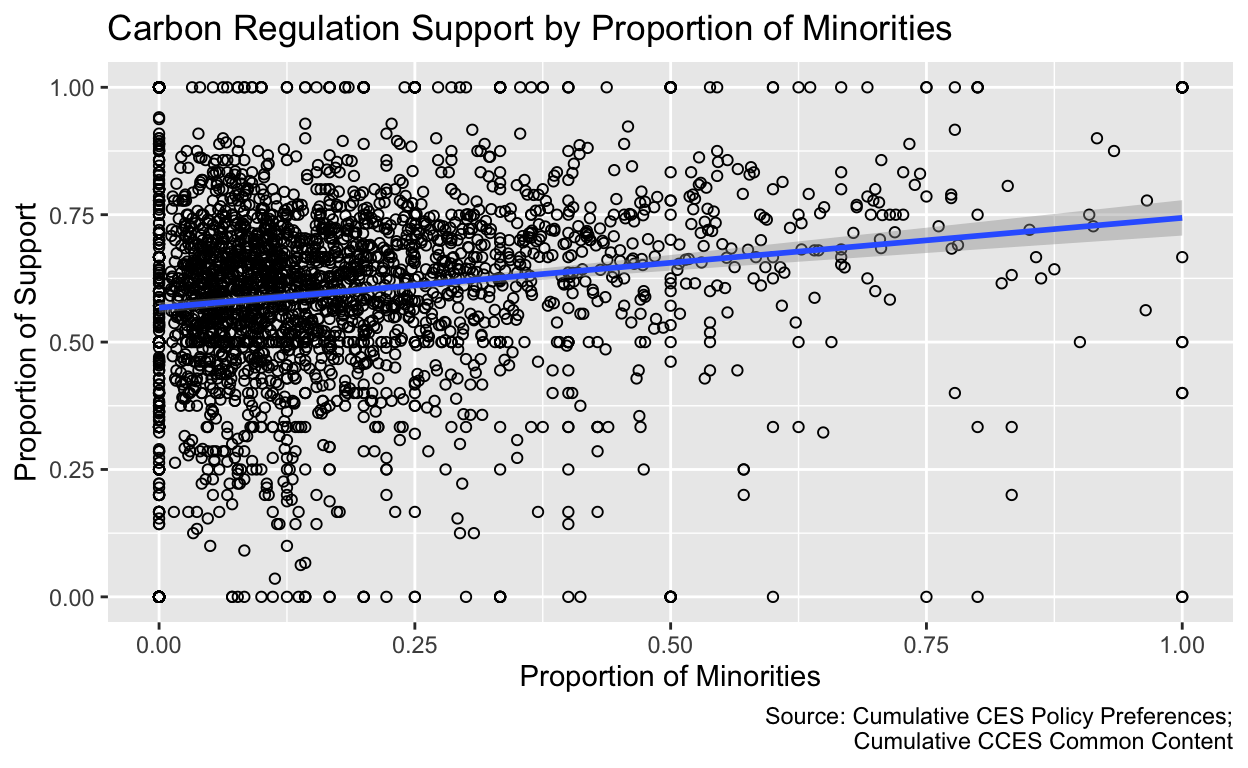
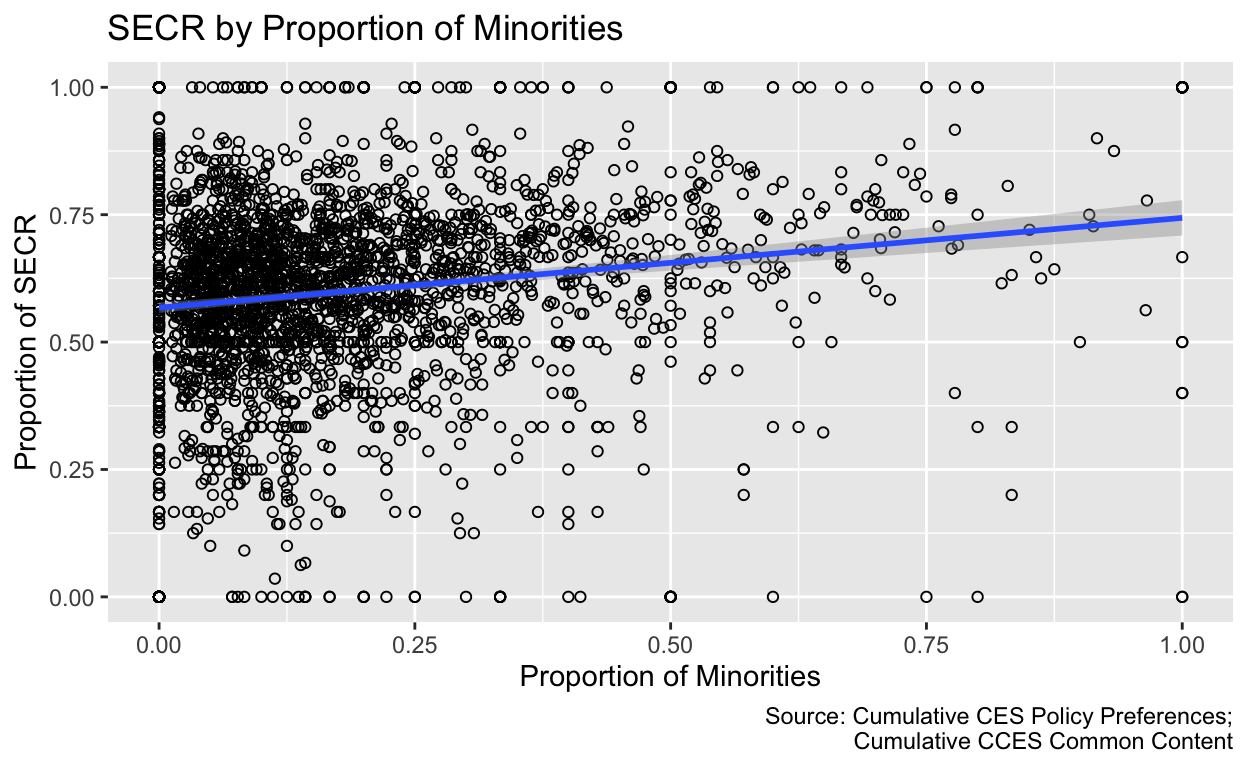
Final Submission

Changed region(s): [[0.0938, 0.0, 0.7812, 0.0625], [0.0, 0.25, 0.0312, 0.625]]

diff --git a/index.html b/index.html
@@ -1529,17 +1529,18 @@ code span.wa { color: #5e5e5e; font-style: italic; } /* Warning */
 
 </div>
 <h2 id="project-proposal">Project Proposal</h2>
-<p>How can different demographics, geography and socioeconomic status impact approval of climate policy or action on climate change? I hypothesize that the strongest correlation between an explanatory variable and the outcome variable(support for climate policy) will be seen with the separation across partly lines. Additionally there will be a weaker correlation when evaluating race as an explanatory variable. I will test this hypothesis through data collected from the Cumulative CES Policy Preferences which includes policy preferences from 2006 to 2021 and the Cumulative CCES Common Content data which contains many of the explanatory data I will analyze. Both of these data sources are broad surveys that sample random populations across the United States. Throughout my analysis i will use several different explanatory variables which will be in the form of different environmental policies that were surveyed in the CCES data. If I find that there is a greater support for environmental policies among democrats and other demographics that may lean overwhelmingly progressive then my hypothesis will be proven correct. This would be noted by a positive and significant coefficient when I run my regression.</p>
+<p>How can racial demographics impact climate change policy preference? I hypothesize that there will be a significant correlation between a explanatory variable indicating race and the outcome variable(support for climate policy). I will seek to explore this question and evaluate the correlations that are drawn and whether they are significant or can be evaluated causally. Finding these relationships in regards to policy preferences are extremely important especially in the realm of environmental policy as they can inform strategies for crafting policy that may be universally accepted. I specifically sought to explore if there was a significant correlation between race and support from climate policy as a springboard for exploration into broader topics of environmental justice as if there is a significant correlation then issues of inequity within climate change impacts may be further warranted.</p>
 <h1 id="introduction">Introduction</h1>
-<p>Using survey data generated from counties across the United States this project seeks to determine the impact of various demographics, geographic locations, and socioeconomic statuses on various environmental policy preferences.</p>
+<p>Using survey data generated from counties across the United States this project seeks to determine the impact of racial demographics on environmental policy preferences.</p>
 <h1 id="data-and-research-design">Data and Research Design</h1>
 <p>To investigate these relationships I relied on data from 2 different sources.</p>
 <ol type="1">
-<li><p><strong>Cumulative CES Policy Preferences</strong> which compiles policy preference question items from Cooperative Election Study (CES) polls over time. Specifically, this data set compiles the results from 557,456 responses across 54 policy preference question items, from 2006-2021. In this report I analyzed the responses in relation to only one of these policy preferences enviro_carbon. The question asked to respondents on this policy preference asked whether the respondent believe that the power should be <strong>given</strong> to the Environmental Protection Agency to regulate carbon dioxide emissions.</p></li>
-<li><p><strong>Cumulative CCES Common Content</strong> which compiles the same policy preference data from the above data set, but adds several categorical variables that will be of use in this report. The main variables I will focus on in this report are race and gender demographics along with political ideologies.</p></li>
+<li><p><strong>Cumulative CES Policy Preferences</strong> which compiles policy preference question items from Cooperative Election Study (CES) polls over time. Specifically, this data set compiles the results from 557,456 responses across 54 policy preference question items, from 2006-2021. In this report I analyzed the responses in relation to only one of these policy preferences enviro_carbon. The question asked to respondents on this policy preference asked whether the respondent believe that the power should be given to the Environmental Protection Agency to regulate carbon dioxide emissions.</p></li>
+<li><p><strong>Cumulative CCES Common Content</strong> which compiles the same policy preference data from the above data set, but adds several categorical variables that will be of use in this report. The main variables I will focus on in this report are race demographics along with ideological viewpoint, gender, and emplotment status.</p></li>
 </ol>
 <p>The research design is observational with correlational analysis that makes no assumptions about causal relationships.</p>
-<p>The Cumulative CES Policy Preferences data provides the outcome variable, <strong>Support for EPA CO2 Regulation</strong>. This preference were obtained through a survey where respondents could select support or oppose for the policy. With this in mind, this of the outcome variable can be demonstrated as a proportion of support to number of respondents. Below are graphics demonstrating first, the overall proportion of support to opposition of EPA carbon regulation within the entirety of the country, and second, the proportion of support across every county within the US.</p>
+<h3 id="outcome-variable">Outcome Variable</h3>
+<p>The Cumulative CES Policy Preferences data provides the outcome variable, <strong>Support for EPA CO2 Regulation (SECR)</strong>. This preference was obtained through a survey where respondents could select support or oppose for the policy. With this in mind, the outcome variable can be demonstrated as a proportion of support to number of respondents. Below are graphics demonstrating first, the overall proportion of support to opposition of SECR within the entirety of the country, and second, the proportion of SECR across every county within the US.</p>
 <div class="layout-chunk" data-layout="l-body">
 <p><img src="index_files/figure-html5/unnamed-chunk-4-1.png" width="624" style="display: block; margin: auto;" /></p>
 </div>
@@ -1547,21 +1548,27 @@ code span.wa { color: #5e5e5e; font-style: italic; } /* Warning */
 <p><img src="index_files/figure-html5/unnamed-chunk-5-1.png" width="624" style="display: block; margin: auto;" /></p>
 </div>
 <p>The range of proportion as seen in the second plot is anywhere from 0 to 1 meaning that there are some examples of counties where no respondents supported the policy, and some counties where all respondents supported the county.</p>
+<h3 id="explanatory-variables">Explanatory Variables</h3>
+<p>In the following section I will present graphs showing the relationship between the explanatory variables and the outcome variable. The explanatory variables were all taken from the Cumulative CCES Common Content data set, below are the variable used.</p>
+<p><strong>Race</strong> - As with all of these variables the data was collected from a survey, the question asked to survey race was simply “What racial or ethnic group best describes you?” Respondents were given the option to choose: White, Black, Hispanic, Asian, Native American, Mixed, Other, or Middle Eastern. For the purposes of this report respondents that answered anything besides White are minorities.</p>
+<p><strong>Gender</strong> - The question asked for gender was “Are you male or female?” and respondents could select one or the other. Within this report we will look at the proportion of females in relation to proportion of SECR.</p>
+<p><strong>Ideology</strong> - The question asked for ideology was “In general, how would you describe your own political viewpoint?” Respondents were given 6 options, but in this report I will analyze the proportion liberals in relation to proportion of SECR.</p>
+<p><strong>Employment Status</strong> - The question asked for employment status was “Which of the following best describes your current employment status?” Respondents were given 9 unique options to choose from, but in this report I will look at one of these options, unemployed.</p>
 <h1 id="results">Results</h1>
-<p>Before performing the regression of Support for Carbon Regulation on the identified explanatory variables, the bivariate relationship can be visualized in a scatter plot. Each data point in these plots represents a unique county in the US with a proportion of CRPP and a proportion for the explanatory variable. The explanatory variable is on the x axis and CRPP is on the y axis.</p>
-<div class="layout-chunk" data-layout="l-body">
-<p><img src="index_files/figure-html5/Multivariate%20Analysis%20Female%20Proportion%20vs.%20CRPP-1.png" width="624" style="display: block; margin: auto;" /></p>
-</div>
+<p>Before performing the regression of Support for Carbon Regulation on the identified explanatory variables, the bivariate relationship can be visualized in a scatter plot. Each data point in these plots represents a unique county in the US with a proportion of CRPP and a proportion for the explanatory variable. The explanatory variable is on the x axis and CRPP is on the y axis. The first plot represents relationship this report seeks to find significant correlations within, and the following two plots represent other explanatory variables that will be used in the multivariate regression in the following section.</p>
 <div class="layout-chunk" data-layout="l-body">
 <p><img src="index_files/figure-html5/Bivariate%20Analysis%20of%20Minority%20Prop%20vs.%20CRPP-1.png" width="624" style="display: block; margin: auto;" /></p>
 </div>
 <div class="layout-chunk" data-layout="l-body">
+<p><img src="index_files/figure-html5/Multivariate%20Analysis%20Female%20Proportion%20vs.%20CRPP-1.png" width="624" style="display: block; margin: auto;" /></p>
+</div>
+<div class="layout-chunk" data-layout="l-body">
 <p><img src="index_files/figure-html5/Bivariate%20Analysis%20of%20Support%20vs.%20Ideology-1.png" width="624" style="display: block; margin: auto;" /></p>
 </div>
-<p>The line of best fit that has been drawn in each of these plots shows us that there is an positive relationship between higher proportions of women, minorities, and liberals, and support for EPA regulation on carbon. The following regression will provide more information on these positive relationships.</p>
+<p>The line of best fit that has been drawn in each of these plots shows us that there is an positive relationship between higher proportions of women, minorities, and liberals, and SECR. The following regression will provide more information on these positive relationships.</p>
 <h2 id="regression">Regression</h2>
-<p>In this report two regression models are detailed. The first is a bivariate model that regresses the proportion of support for carbon regulation on proportion of minorities. The second is a multivariate model which will include additional covariates such as proportions of liberals, women, and unemployed people.</p>
-<p>Regressions shows that a statistically significant, positive correlation, exists between proportion of minorities and support for EPA regulation of carbon.</p>
+<p>In this report two regression models are detailed. The first is a bivariate model that regresses the SECR on Race. The second is a multivariate model which will include additional covariates such as ideology, gender, and employment.</p>
+<p>Regressions shows that a statistically significant, positive correlation, exists between being a minority and SECR.</p>
 <div class="layout-chunk" data-layout="l-body">
 
 </div>
@@ -1623,7 +1630,7 @@ Multivariate
 0.65
 </td>
 <td style="text-align:right;">
-0.43
+0.54
 </td>
 <td style="text-align:right;">
 0
@@ -1640,95 +1647,75 @@ Multivariate
 </tr>
 <tr>
 <td style="text-align:left;">
-Nonwhite
+Minority
 </td>
 <td style="text-align:right;">
 0.10
 </td>
 <td style="text-align:right;">
+0.08
+</td>
+<td style="text-align:right;">
+0
+</td>
+<td style="text-align:right;">
+0
+</td>
+<td style="text-align:right;">
+0
+</td>
+<td style="text-align:right;">
+0
+</td>
+</tr>
+<tr>
+<td style="text-align:left;">
+Liberal
+</td>
+<td style="text-align:right;">
+</td>
+<td style="text-align:right;">
+0.28
+</td>
+<td style="text-align:right;">
+</td>
+<td style="text-align:right;">
+0
+</td>
+<td style="text-align:right;">
+</td>
+<td style="text-align:right;">
+0
+</td>
+</tr>
+<tr>
+<td style="text-align:left;">
+Woman
+</td>
+<td style="text-align:right;">
+</td>
+<td style="text-align:right;">
+0.11
+</td>
+<td style="text-align:right;">
+</td>
+<td style="text-align:right;">
+0
+</td>
+<td style="text-align:right;">
+</td>
+<td style="text-align:right;">
+0
+</td>
+</tr>
+<tr>
+<td style="text-align:left;">
+Unemployed
+</td>
+<td style="text-align:right;">
+</td>
+<td style="text-align:right;">
 0.02
-</td>
-<td style="text-align:right;">
-0
-</td>
-<td style="text-align:right;">
-0
-</td>
-<td style="text-align:right;">
-0
-</td>
-<td style="text-align:right;">
-0
-</td>
-</tr>
-<tr>
-<td style="text-align:left;">
-liberal
-</td>
-<td style="text-align:right;">
-</td>
-<td style="text-align:right;">
-0.09
-</td>
-<td style="text-align:right;">
-</td>
-<td style="text-align:right;">
-0
-</td>
-<td style="text-align:right;">
-</td>
-<td style="text-align:right;">
-0
-</td>
-</tr>
-<tr>
-<td style="text-align:left;">
-unemployed
-</td>
-<td style="text-align:right;">
-</td>
-<td style="text-align:right;">
-0.03
-</td>
-<td style="text-align:right;">
-</td>
-<td style="text-align:right;">
-0
-</td>
-<td style="text-align:right;">
-</td>
-<td style="text-align:right;">
-0
-</td>
-</tr>
-<tr>
-<td style="text-align:left;">
-female
-</td>
-<td style="text-align:right;">
-</td>
-<td style="text-align:right;">
-0.09
-</td>
-<td style="text-align:right;">
-</td>
-<td style="text-align:right;">
-0
-</td>
-<td style="text-align:right;">
-</td>
-<td style="text-align:right;">
-0
-</td>
-</tr>
-<tr>
-<td style="text-align:left;">
-democrat
-</td>
-<td style="text-align:right;">
-</td>
-<td style="text-align:right;">
-0.38
 </td>
 <td style="text-align:right;">
 </td>
@@ -1745,21 +1732,21 @@ democrat
 </table>
 </div>
 <h3 id="bivariate-model-interpretation">Bivariate Model Interpretation</h3>
-<p>The bivariate model shows that for an increase of 1 unit in minority there is a .10 unit increase in the proportion of support of EPA Regulation of carbon. This can be interpreted as: Within a group of minorities (defined as anyone who is nonwhite), the proportion of people who support EPA Regulation of carbon will be .10 or 10 percent larger than if that group included no minorities. This regression also estimates that the proportion of support in a group of no minorities is about .65 or 65 percent.</p>
+<p>The bivariate model shows that for an increase of 1 unit in proportion of minorities there is a .10 unit increase in the proportion of SECR. This can be interpreted as: Within a group of minorities, the proportion of people who support EPA Regulation of carbon will be .10 or 10 percent larger than if that group included no minorities. This regression also estimates that the proportion of SECR in a group of no minorities is about .65 or 65 percent.</p>
 <p>The standard error was negligible and the p-value for the minority coefficient was 0. The importance of this p-value will be discussed further under the Statistical Significance section.</p>
 <h3 id="multivariate-model-interpretation">Multivariate Model Interpretation</h3>
-<p>The multivariate model shows a slightly lower association as the covariates are added. It shows that when you hold ideological affiliation, employment status, and gender constant, a 1 unit increase in minority will yield a .08 unit increase in the proportion of support of EPA Regulation of carbon. This can be interpreted as: Within a group of minorities, the proportion of people who support EPA Regulation of carbon will be .08 or 8 percent larger, considering demographics of ideology, employment, and gender remaining constant. This regression estimates that the proportion of support when all of the analyzed explanatory variables are 0 will be about .54 or 54 percent. This means that, according to the regression a population consisting of no minorities, liberals, women, and unemployed people will result in a proportion of support around 54 percent.</p>
+<p>The multivariate model shows a slightly lower association as the covariates are added. It shows that when you hold ideological affiliation, employment status, and gender constant, a 1 unit increase in minority will yield a .08 unit increase in the proportion of SECR. This can be interpreted as: Within a group of minorities, the proportion of people who support EPA Regulation of carbon will be .08 or 8 percent larger than a group with no minorities, considering demographics of ideology, employment, and gender remain constant. This regression estimates that the proportion of SECR when all of the analyzed explanatory variables are 0 will be about .54 or 54 percent. This means that, according to the regression a population consisting of no minorities, liberals, women, and unemployed people will result in a proportion of SECR around 54 percent.</p>
 <p>Similar to the bivariate model the standard error was negligible and the p-value for the minority coefficient was 0.</p>
 <h3 id="statistical-significance">Statistical Significance</h3>
-<p>In both of the above regression models, the correlation between the minority explanatory value and the support for EPA Regulation on carbon is statistically significant at the test level of <span class="math inline">\(\alpha = 0.05\)</span>. This is shown because the p-value on the coefficient representing minority identification is 0 in both models. Because it is hypothesized that the correlation between minority identification and support for EPA Regulation on Carbon is nonzero, the p-value of 0 indicates that the regression’s estimated correlation coefficient has a near 0 percent probability of being extreme and meaningless and that there is a near 100 percent probability that the estimated correlation is not due to random chance. Both of these are because the estimated correlation is so unique to the null distribution that it must be statistically significant.</p>
+<p>In both of the above regression models, the correlation between the minority explanatory value and the support for EPA Regulation on carbon is statistically significant at the test level of <span class="math inline">\(\alpha = 0.05\)</span>. This is shown because the p-value on the coefficient representing minority identification is 0 in both models. Because it is hypothesized that the correlation between minority identification and support for SECR is nonzero, the p-value of 0 indicates that the regression’s estimated correlation coefficient has a near 0 percent probability of being extreme and meaningless and that there is a near 100 percent probability that the estimated correlation is not due to random chance. Both of these are because the estimated correlation is so unique to the null distribution that it must be statistically significant.</p>
 <h3 id="causality">Causality</h3>
-<p>There are two main reasons that the relationship correlating minority presence to an increase in support for EPA regulation on carbon cannot be diagnosed as causal. The first reason is that the explanatory variable(minority presence) is not randomly assigned among participants which makes it almost impossible to eliminate confounders that may influence the regression. With this being said minority presence and support for EPA regulation on carbon do have a positive correlation that is statistically significant.</p>
-<p>The multivariate regression attempts to control for some of these confounders, for example: ideology. This was analyzed in a variable that identified if the participant identified as liberal or not. The liberal ideology is defined as being a supporter of policies that are socially progressive and promote social welfare. With this definition in mind if a person is liberal they would be more likely to support a policy allowing the EPA to regulate carbon. This positive correlation was seen both within the regression coefficient and in the graph titled “Carbon Regulation Support by Proportion of Liberals” above.</p>
+<p>There are two main reasons that the relationship correlating minority presence to an increase in SECR cannot be diagnosed as causal. The first reason is that the explanatory variable(minority presence) is not and can’t be randomly assigned among participants which makes it harder to eliminate confounders that may influence the regression. With this being said minority presence and SECR do have a positive correlation that is statistically significant.</p>
+<p>The multivariate regression attempts to control for some of these confounders, for example: ideology. This was analyzed in a variable that identified if the participant identified as liberal or not. The liberal ideology is defined as being a supporter of policies that are socially progressive and promote social welfare. With this definition in mind if a person is liberal they would be more likely to support a policy allowing the EPA to regulate carbon. This positive correlation was seen both within the regression coefficient and in the graph titled “SECR by Proportion of Liberals” above.</p>
 <p>There are a multitude of other possible confounders such as gender and unemployment which were regarded in the regression. Another confounder could be political affiliation because issues regarding the climate and government regulation tend to be very polarizing across party lines. The presence of these confounders and the fact that many more exist is the second reason this relationship cannot be evaluated as causal because of the wide variety of uncontrolled confounders that may impact the regression.</p>
 <h1 id="conclusion">Conclusion</h1>
 <p>In this article I sought to explore demographic data on race for correlations in regards to environmental policy preference and in doing such I found a positive and significant relationship inferring that being a minority is correlated to higher support for allowing the EPA to regulate carbon. This correlation was found doing two separate regressions one bivariate where confounders weren’t considered and a multivariate where several confounders were taken into consideration. In this multivariate model the correlation between minorities and support was slightly less positive, but still statistically significant.</p>
-<p>With this being said there were some limitations that I ran across when creating this article. One of which was the survey question asked in the CES data I used for my graphs and regressions. The exact wording of the question was “Do you support or oppose each of the following policies: Give the Environmental Protection Agency power to regulate Carbon Dioxide emissions.” I believe the presence of the word give in this question instantly alienates portions of the population that are against giving government agencies power that they hadn’t already had. This is relevant because it takes away from my question which seeks to find peoples overall preference towards environmental protection through policy. I believe this could be mended by simply removing the give and changing the language of the question to be less politically aggravating so that it would look something like: Do you support or oppose the following policy: Environmental Protection Agency managing Carbon Dioxide levels.</p>
-<p>In addition to this limitation an improvement that I would implement is including more possible confounders in the regression to get the most accurate relationship between a person being a minority and their environmental policy preference.</p>
+<p>With this being said there were some limitations that I ran across when creating this report. One of which was the survey question asked in the CES data I used for my graphs and regressions. The exact wording of the question was “Do you support or oppose each of the following policies: Give the Environmental Protection Agency power to regulate Carbon Dioxide emissions.” I believe the presence of the word <strong>give</strong> in this question instantly alienates portions of the population that are against giving government agencies power that they hadn’t already had. This is relevant because it takes away from my question which seeks to find peoples overall preference towards environmental protection through policy. I believe this could be mended by simply removing the word give and changing the language of the question to be less politically aggravating so that it would look something like: Do you support or oppose the following policy: Environmental Protection Agency managing Carbon Dioxide levels.</p>
+<p>In addition to this limitation, an improvement that I would implement is including more possible confounders in the regression to get the most accurate relationship between a person being a minority and their environmental policy preference.</p>
 <h3 id="next-steps">Next Steps</h3>
 <p>Finally, I believe the next path of exploration for the question I proposed would be collecting data from the status quo that analyzes peoples preferences and try to deduce how specific events may influence people’s policy preference, for example seeing if people became more favorable post a large public natural disaster or after the passage of a huge climate bill like the Inflation Reduction Act. There are a plethora of relationships that can be explored that can inform how and what kind of policies are feasible. Relationships like the one explored in this article that may open up new horizons for exploration.</p>
 <div class="sourceCode" id="cb1"><pre class="sourceCode r distill-force-highlighting-css"><code class="sourceCode r"></code></pre></div>
